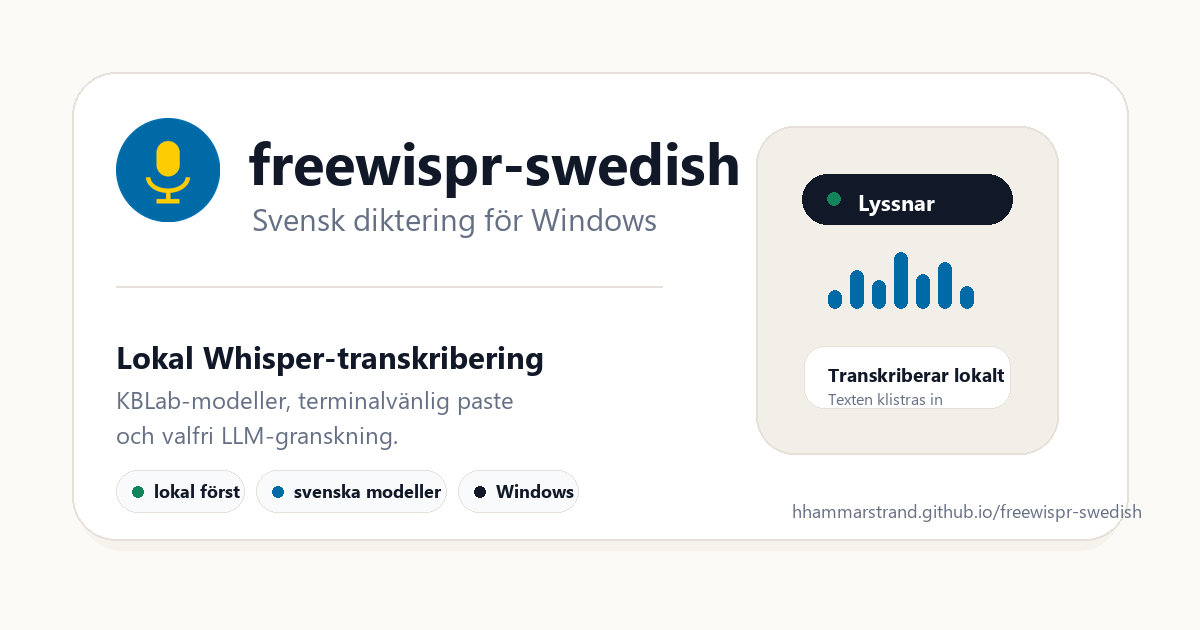
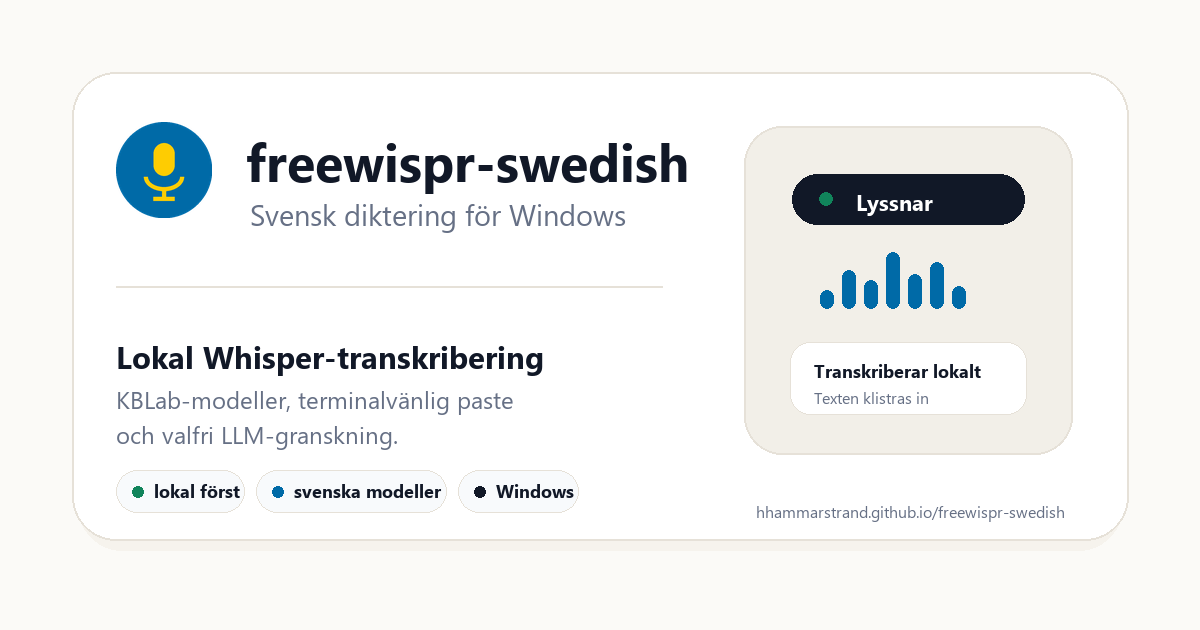
docs: refine social preview spacing

diff --git a/make_icon.py b/make_icon.py
@@ -107,10 +107,10 @@ def make_og_image() -> Image.Image:
     draw.rounded_rectangle([78, 80, 1122, 550], radius=44, fill="#f6f3ed")
     draw.rounded_rectangle([72, 72, 1128, 540], radius=44, fill="white", outline=LINE, width=2)
 
-    icon = make_icon(104)
-    img.paste(icon, (116, 118), icon)
-    draw.text((248, 122), "freewispr-swedish", font=_font(58, True), fill=INK)
-    draw.text((252, 197), "Svensk diktering för Windows", font=_font(31, False), fill=MUTED)
+    icon = make_icon(96)
+    img.paste(icon, (116, 122), icon)
+    draw.text((246, 125), "freewispr-swedish", font=_font(52, True), fill=INK)
+    draw.text((250, 194), "Svensk diktering för Windows", font=_font(29, False), fill=MUTED)
 
     draw.line([116, 286, 662, 286], fill=LINE, width=2)
     draw.text((116, 335), "Lokal Whisper-transkribering", font=_font(31, True), fill=INK)
@@ -127,22 +127,22 @@ def make_og_image() -> Image.Image:
         draw.text((x + 38, 478), text, font=_font(18, True), fill=INK)
         x += width + 12
 
-    draw.rounded_rectangle([756, 126, 1058, 454], radius=38, fill=SOFT, outline=LINE, width=2)
-    draw.rounded_rectangle([802, 174, 1012, 224], radius=25, fill=INK)
-    draw.ellipse([827, 192, 840, 205], fill=GREEN)
-    draw.text((858, 187), "Lyssnar", font=_font(22, True), fill="white")
+    draw.rounded_rectangle([744, 126, 1072, 454], radius=38, fill=SOFT, outline=LINE, width=2)
+    draw.rounded_rectangle([792, 174, 1024, 224], radius=25, fill=INK)
+    draw.ellipse([819, 192, 832, 205], fill=GREEN)
+    draw.text((856, 187), "Lyssnar", font=_font(22, True), fill="white")
 
     bars = [18, 38, 28, 56, 34, 46, 22]
-    bx = 828
+    bx = 820
     for height in bars:
         draw.rounded_rectangle([bx, 308 - height, bx + 13, 308], radius=7, fill=BLUE)
         bx += 22
 
-    draw.rounded_rectangle([804, 346, 1010, 408], radius=20, fill="white", outline=LINE, width=1)
-    draw.text((828, 361), "Transkriberar lokalt", font=_font(19, True), fill=INK)
-    draw.text((828, 387), "Texten klistras in", font=_font(16, False), fill=MUTED)
+    draw.rounded_rectangle([790, 342, 1026, 414], radius=20, fill="white", outline=LINE, width=1)
+    draw.text((814, 358), "Transkriberar lokalt", font=_font(18, True), fill=INK)
+    draw.text((814, 386), "Texten klistras in", font=_font(16, False), fill=MUTED)
 
-    draw.text((792, 498), "hhammarstrand.github.io/freewispr-swedish", font=_font(18, False), fill=MUTED)
+    draw.text((756, 500), "hhammarstrand.github.io/freewispr-swedish", font=_font(16, False), fill=MUTED)
     return img
 
 
